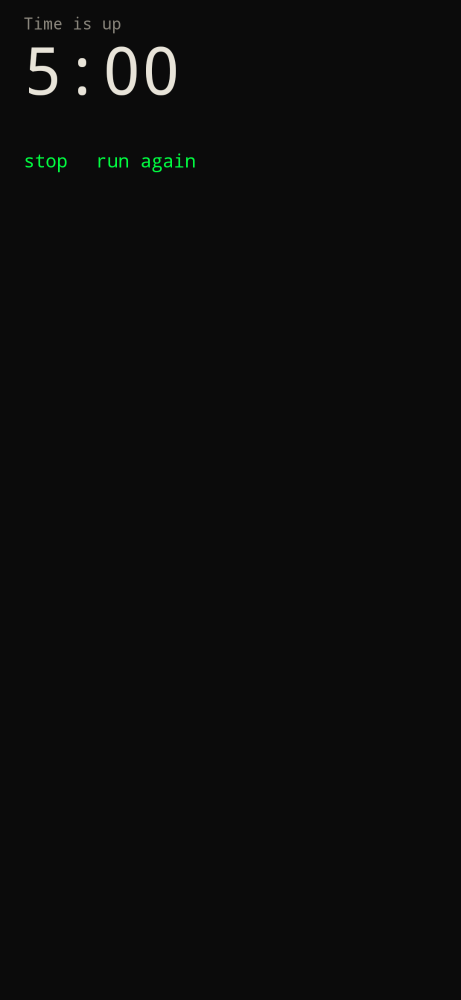
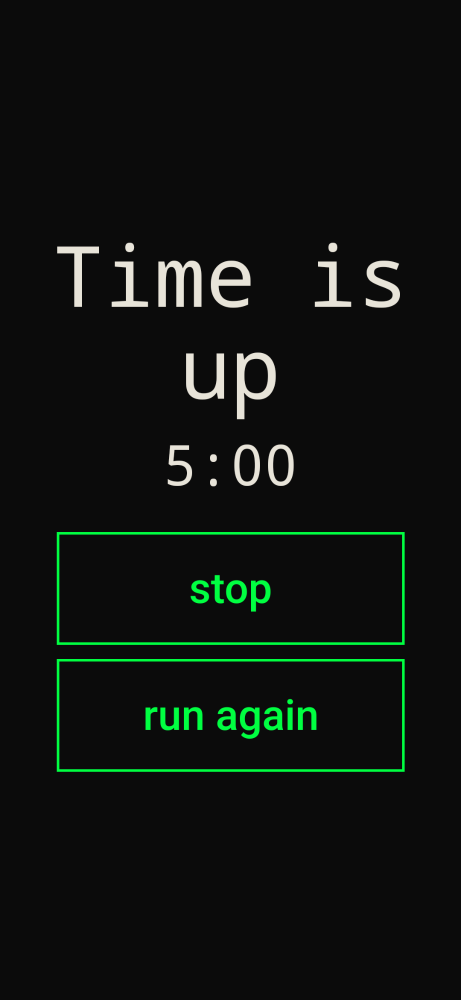
fix: enlarge and center the alarm alert
The name is the large title. Dismiss and snooze are wide actions in the middle of the space still on screen, above the software keyboard or on a hardware-keyboard display.

diff --git a/app/src/main/java/xyz/cdr/builderlauncher/ui/ClockScreen.kt b/app/src/main/java/xyz/cdr/builderlauncher/ui/ClockScreen.kt
@@ -1,21 +1,26 @@
 package xyz.cdr.builderlauncher.ui
 
 import androidx.compose.foundation.background
+import androidx.compose.foundation.border
 import androidx.compose.foundation.clickable
 import androidx.compose.foundation.gestures.detectDragGesturesAfterLongPress
 import androidx.compose.foundation.interaction.MutableInteractionSource
 import androidx.compose.foundation.layout.Arrangement
 import androidx.compose.foundation.layout.Box
+import androidx.compose.foundation.layout.BoxWithConstraints
 import androidx.compose.foundation.layout.Column
 import androidx.compose.foundation.layout.Row
 import androidx.compose.foundation.layout.Spacer
+import androidx.compose.foundation.layout.WindowInsets
+import androidx.compose.foundation.layout.defaultMinSize
 import androidx.compose.foundation.layout.fillMaxSize
 import androidx.compose.foundation.layout.fillMaxWidth
 import androidx.compose.foundation.layout.height
-import androidx.compose.foundation.layout.imePadding
+import androidx.compose.foundation.layout.heightIn
 import androidx.compose.foundation.layout.padding
-import androidx.compose.foundation.layout.statusBarsPadding
-import androidx.compose.foundation.layout.navigationBarsPadding
+import androidx.compose.foundation.layout.safeDrawing
+import androidx.compose.foundation.layout.windowInsetsPadding
+import androidx.compose.foundation.shape.RoundedCornerShape
 import androidx.compose.foundation.rememberScrollState
 import androidx.compose.foundation.verticalScroll
 import androidx.compose.material3.MaterialTheme
@@ -31,12 +36,15 @@ import androidx.compose.runtime.rememberUpdatedState
 import androidx.compose.runtime.setValue
 import androidx.compose.ui.Alignment
 import androidx.compose.ui.Modifier
+import androidx.compose.ui.graphics.Color
 import androidx.compose.ui.graphics.graphicsLayer
 import androidx.compose.ui.input.pointer.pointerInput
 import androidx.compose.ui.layout.onSizeChanged
 import androidx.compose.ui.platform.LocalContext
 import androidx.compose.ui.platform.LocalDensity
 import androidx.compose.ui.text.font.FontWeight
+import androidx.compose.ui.text.style.TextAlign
+import androidx.compose.ui.text.style.TextOverflow
 import androidx.compose.ui.unit.dp
 import androidx.compose.ui.unit.sp
 import androidx.compose.ui.zIndex
@@ -57,6 +65,7 @@ import xyz.cdr.builderlauncher.data.ListReorder
 import xyz.cdr.builderlauncher.ui.theme.Accent
 import xyz.cdr.builderlauncher.ui.theme.Dim
 import xyz.cdr.builderlauncher.ui.theme.Ink
+import xyz.cdr.builderlauncher.ui.theme.LocalTokens
 import xyz.cdr.builderlauncher.ui.theme.Paper
 import xyz.cdr.builderlauncher.weather.WeatherPlace
 
@@ -375,6 +384,7 @@ fun ClockAlertScreen(
     alert: ClockAlert,
     modifier: Modifier = Modifier,
     sound: ClockSound = ClockSound.OFF,
+    contentInsets: WindowInsets = WindowInsets.safeDrawing,
     onStop: () -> Unit = {},
     onRunAgain: () -> Unit = {},
     onDismiss: () -> Unit = {},
@@ -386,7 +396,9 @@ fun ClockAlertScreen(
         onDispose { }
     }
     val timer = alert.kind == ClockAlertKind.TIMER
-    Column(
+    val title = if (timer) alert.label.ifBlank { "Time is up" } else alert.label.ifBlank { "Alarm" }
+    val time = if (timer) Clock.formatTimer(alert.durationMs) else Clock.formatAlarm(alert.hour, alert.minute)
+    Box(
         modifier
             .fillMaxSize()
             .background(Ink)
@@ -394,61 +406,90 @@ fun ClockAlertScreen(
                 indication = null,
                 interactionSource = remember { MutableInteractionSource() },
             ) {}
-            .statusBarsPadding()
-            .navigationBarsPadding()
-            .imePadding()
-            .padding(horizontal = 20.dp, vertical = 12.dp),
+            .windowInsetsPadding(contentInsets),
     ) {
-        Text(
-            if (timer) alert.label.ifBlank { "Time is up" } else alert.label.ifBlank { "Alarm" },
-            color = Dim,
-            style = MaterialTheme.typography.bodyMedium,
-        )
-        Text(
-            if (timer) Clock.formatTimer(alert.durationMs) else Clock.formatAlarm(alert.hour, alert.minute),
-            color = Paper,
-            style = MaterialTheme.typography.headlineLarge.copy(
-                fontSize = 56.sp,
-                fontWeight = FontWeight.Medium,
-                lineHeight = 60.sp,
-            ),
-        )
-        if (timer) {
-            Spacer(Modifier.height(24.dp))
-            Row(horizontalArrangement = Arrangement.spacedBy(24.dp)) {
-                Text(
-                    "stop",
-                    color = Accent,
-                    modifier = Modifier.clickable { onStop() }.padding(vertical = 8.dp),
-                )
-                Text(
-                    "run again",
-                    color = Accent,
-                    modifier = Modifier.clickable { onRunAgain() }.padding(vertical = 8.dp),
-                )
-            }
-        } else {
-            Spacer(Modifier.weight(1f))
-            Row(
-                Modifier.fillMaxWidth(),
-                horizontalArrangement = Arrangement.SpaceBetween,
-                verticalAlignment = Alignment.CenterVertically,
+        BoxWithConstraints(Modifier.fillMaxSize().padding(horizontal = 24.dp, vertical = 8.dp)) {
+            val heightDp = maxHeight.value.toInt()
+            val titleSize = ClockAlertLayout.titleSp(heightDp)
+            val timeSize = ClockAlertLayout.timeSp(heightDp)
+            Column(
+                Modifier
+                    .fillMaxWidth()
+                    .verticalScroll(rememberScrollState())
+                    .heightIn(min = maxHeight),
+                horizontalAlignment = Alignment.CenterHorizontally,
+                verticalArrangement = Arrangement.Center,
             ) {
                 Text(
-                    "dismiss",
-                    color = Dim,
-                    modifier = Modifier
-                        .clickable { onDismiss() }
-                        .padding(top = 16.dp, bottom = 8.dp, end = 24.dp),
+                    title,
+                    color = Paper,
+                    textAlign = TextAlign.Center,
+                    maxLines = 3,
+                    overflow = TextOverflow.Ellipsis,
+                    style = MaterialTheme.typography.headlineLarge.copy(
+                        fontSize = titleSize.sp,
+                        fontWeight = FontWeight.Medium,
+                        lineHeight = (titleSize + 6).sp,
+                    ),
                 )
+                Spacer(Modifier.height(12.dp))
                 Text(
-                    "snooze 8 min",
-                    color = Accent,
-                    modifier = Modifier
-                        .clickable { onSnooze() }
-                        .padding(top = 16.dp, bottom = 8.dp, start = 24.dp),
+                    time,
+                    color = Paper,
+                    textAlign = TextAlign.Center,
+                    style = MaterialTheme.typography.headlineLarge.copy(
+                        fontSize = timeSize.sp,
+                        fontWeight = FontWeight.Medium,
+                        lineHeight = (timeSize + 4).sp,
+                    ),
                 )
+                Spacer(Modifier.height(28.dp))
+                Column(
+                    Modifier.fillMaxWidth(),
+                    horizontalAlignment = Alignment.CenterHorizontally,
+                    verticalArrangement = Arrangement.spacedBy(12.dp),
+                ) {
+                    if (timer) {
+                        AlertAction("stop", Accent, Accent, heightDp, onStop)
+                        AlertAction("run again", Accent, Accent, heightDp, onRunAgain)
+                    } else {
+                        AlertAction("dismiss", Paper, Dim, heightDp, onDismiss)
+                        AlertAction("snooze 8 min", Accent, Accent, heightDp, onSnooze)
+                    }
+                }
             }
         }
+    }
+}
+
+@Composable
+private fun AlertAction(
+    label: String,
+    text: Color,
+    border: Color,
+    heightDp: Int,
+    onClick: () -> Unit,
+) {
+    val size = ClockAlertLayout.actionSp(heightDp)
+    val shape = RoundedCornerShape(LocalTokens.current.radius)
+    Box(
+        Modifier
+            .fillMaxWidth(0.86f)
+            .defaultMinSize(minHeight = ClockAlertLayout.actionMinHeightDp(heightDp).dp)
+            .border(2.dp, border, shape)
+            .clickable(onClick = onClick)
+            .padding(horizontal = 20.dp, vertical = 16.dp),
+        contentAlignment = Alignment.Center,
+    ) {
+        Text(
+            label,
+            color = text,
+            textAlign = TextAlign.Center,
+            style = MaterialTheme.typography.headlineSmall.copy(
+                fontSize = size.sp,
+                fontWeight = FontWeight.Medium,
+                lineHeight = (size + 6).sp,
+            ),
+        )
     }
 }

diff --git a/app/src/test/java/xyz/cdr/builderlauncher/ui/ClockAlertLayoutTest.kt b/app/src/test/java/xyz/cdr/builderlauncher/ui/ClockAlertLayoutTest.kt
@@ -1,0 +1,32 @@
+package xyz.cdr.builderlauncher.ui
+
+import org.junit.Assert.assertEquals
+import org.junit.Test
+
+class ClockAlertLayoutTest {
+    @Test
+    fun shortDisplayStaysReadable() {
+        assertEquals(48, ClockAlertLayout.titleSp(419))
+        assertEquals(36, ClockAlertLayout.timeSp(419))
+        assertEquals(28, ClockAlertLayout.actionSp(419))
+        assertEquals(72, ClockAlertLayout.actionMinHeightDp(419))
+    }
+
+    @Test
+    fun keyboardUpSlabUsesMidSizes() {
+        assertEquals(56, ClockAlertLayout.titleSp(420))
+        assertEquals(56, ClockAlertLayout.titleSp(559))
+        assertEquals(40, ClockAlertLayout.timeSp(500))
+        assertEquals(32, ClockAlertLayout.actionSp(500))
+        assertEquals(84, ClockAlertLayout.actionMinHeightDp(500))
+    }
+
+    @Test
+    fun fullScreenUsesLargeTitleAndActions() {
+        assertEquals(72, ClockAlertLayout.titleSp(560))
+        assertEquals(72, ClockAlertLayout.titleSp(851))
+        assertEquals(48, ClockAlertLayout.timeSp(851))
+        assertEquals(36, ClockAlertLayout.actionSp(851))
+        assertEquals(96, ClockAlertLayout.actionMinHeightDp(851))
+    }
+}

diff --git a/app/src/main/java/xyz/cdr/builderlauncher/ui/LauncherChrome.kt b/app/src/main/java/xyz/cdr/builderlauncher/ui/LauncherChrome.kt
@@ -23,6 +23,7 @@ import androidx.compose.foundation.layout.heightIn
 import androidx.compose.foundation.layout.padding
 import androidx.compose.foundation.layout.size
 import androidx.compose.foundation.layout.width
+import androidx.compose.foundation.layout.WindowInsets
 import androidx.compose.foundation.layout.wrapContentWidth
 import androidx.compose.foundation.rememberScrollState
 import androidx.compose.foundation.verticalScroll
@@ -2084,13 +2085,15 @@ fun ClockAlertChrome(
     kind: String = "timer",
     time: String = "5:00",
     label: String = "Time is up",
+    contentInsets: WindowInsets = WindowInsets(0, 0, 0, 0),
 ) {
     ClockAlertScreen(
         alert = if (kind == "alarm") {
             ClockAlert(kind = ClockAlertKind.ALARM, hour = 6, minute = 30, label = label)
         } else {
-            ClockAlert(kind = ClockAlertKind.TIMER, durationMs = 5 * 60_000L)
+            ClockAlert(kind = ClockAlertKind.TIMER, durationMs = 5 * 60_000L, label = label)
         },
+        contentInsets = contentInsets,
     )
 }
 

diff --git a/app/src/test/java/xyz/cdr/builderlauncher/ui/LauncherScreenshotTest.kt b/app/src/test/java/xyz/cdr/builderlauncher/ui/LauncherScreenshotTest.kt
@@ -1,6 +1,9 @@
 package xyz.cdr.builderlauncher.ui
 
+import androidx.compose.foundation.layout.WindowInsets
 import androidx.compose.runtime.Composable
+import androidx.compose.ui.platform.LocalDensity
+import androidx.compose.ui.unit.dp
 import app.cash.paparazzi.DeviceConfig
 import app.cash.paparazzi.Paparazzi
 import org.junit.Rule
@@ -915,6 +918,20 @@ class LauncherScreenshotTest {
         paparazzi.snapshot {
             BuilderTheme {
                 ClockAlertChrome(kind = "alarm", label = "Alarm")
+            }
+        }
+    }
+
+    @Test
+    fun clockAlarmAlertKeyboard() {
+        paparazzi.snapshot {
+            BuilderTheme {
+                val bottom = with(LocalDensity.current) { 320.dp.roundToPx() }
+                ClockAlertChrome(
+                    kind = "alarm",
+                    label = "Take out garbage",
+                    contentInsets = WindowInsets(0, 0, 0, bottom),
+                )
             }
         }
     }

diff --git a/app/src/main/java/xyz/cdr/builderlauncher/ui/ClockAlertLayout.kt b/app/src/main/java/xyz/cdr/builderlauncher/ui/ClockAlertLayout.kt
@@ -1,0 +1,32 @@
+package xyz.cdr.builderlauncher.ui
+
+/**
+ * Sizes for the full-screen alarm and timer alert.
+ * The block is centered in the visible height after system bars and the software keyboard,
+ * so a short hardware-keyboard display and a slab with the keyboard open both keep the actions on screen.
+ */
+internal object ClockAlertLayout {
+    fun titleSp(heightDp: Int): Int = when {
+        heightDp < 420 -> 48
+        heightDp < 560 -> 56
+        else -> 72
+    }
+
+    fun timeSp(heightDp: Int): Int = when {
+        heightDp < 420 -> 36
+        heightDp < 560 -> 40
+        else -> 48
+    }
+
+    fun actionSp(heightDp: Int): Int = when {
+        heightDp < 420 -> 28
+        heightDp < 560 -> 32
+        else -> 36
+    }
+
+    fun actionMinHeightDp(heightDp: Int): Int = when {
+        heightDp < 420 -> 72
+        heightDp < 560 -> 84
+        else -> 96
+    }
+}

diff --git a/website/src/content/docs/use/clock.md b/website/src/content/docs/use/clock.md
@@ -31,14 +31,14 @@ Timers, alarms, and time zones stay on the device across app launches. A running
 
 Alarms and the running timer play a real Android ringtone on the alarm stream, even if the phone is on silent or vibrate. The clip loops and fades in over 4 seconds. Pick `pulse`, `chime`, `bell`, `orthodox`, `hum`, or `off` in [settings](../../configure/settings/) — tap a name to hear it. Orthodox is a public-domain chant. `<` returns home.
 
-![Timer is up: stop or run again](../../../assets/screenshots/clock-timer-alert.png)
+![Timer is up: stop or run again, centered](../../../assets/screenshots/clock-timer-alert.png)
 
-![Alarm: dismiss on the left, snooze on the right](../../../assets/screenshots/clock-alarm-alert.png)
+![Alarm name large, dismiss and snooze in the middle](../../../assets/screenshots/clock-alarm-alert.png)
 
 | When | Prompt |
 | --- | --- |
 | Timer | `stop` or `run again` (same duration). |
-| Alarm | `dismiss` on the left stops it. `snooze 8 min` on the right rings again in 8 minutes. Both sit above the software keyboard. The same screen opens when the phone is unlocked, including when a snooze ends, so the alarm can be stopped without opening the notification. |
+| Alarm | `dismiss` stops it. `snooze 8 min` rings again in 8 minutes. The name is large. Both actions sit in the middle of the space still on screen: above the software keyboard, or in the middle of the display when that keyboard is closed or the phone has a hardware keyboard. The same screen opens when the phone is unlocked, including when a snooze ends, so the alarm can be stopped without opening the notification. |
 
 If the phone is locked or the screen is off, that same full-screen alert opens over the lock. Dismiss or snooze returns to the lock screen. Unlocked home still covers the command bar with the same screen. If it only shows as a notification, allow full-screen notifications for Builder Launcher in Android settings.
 
